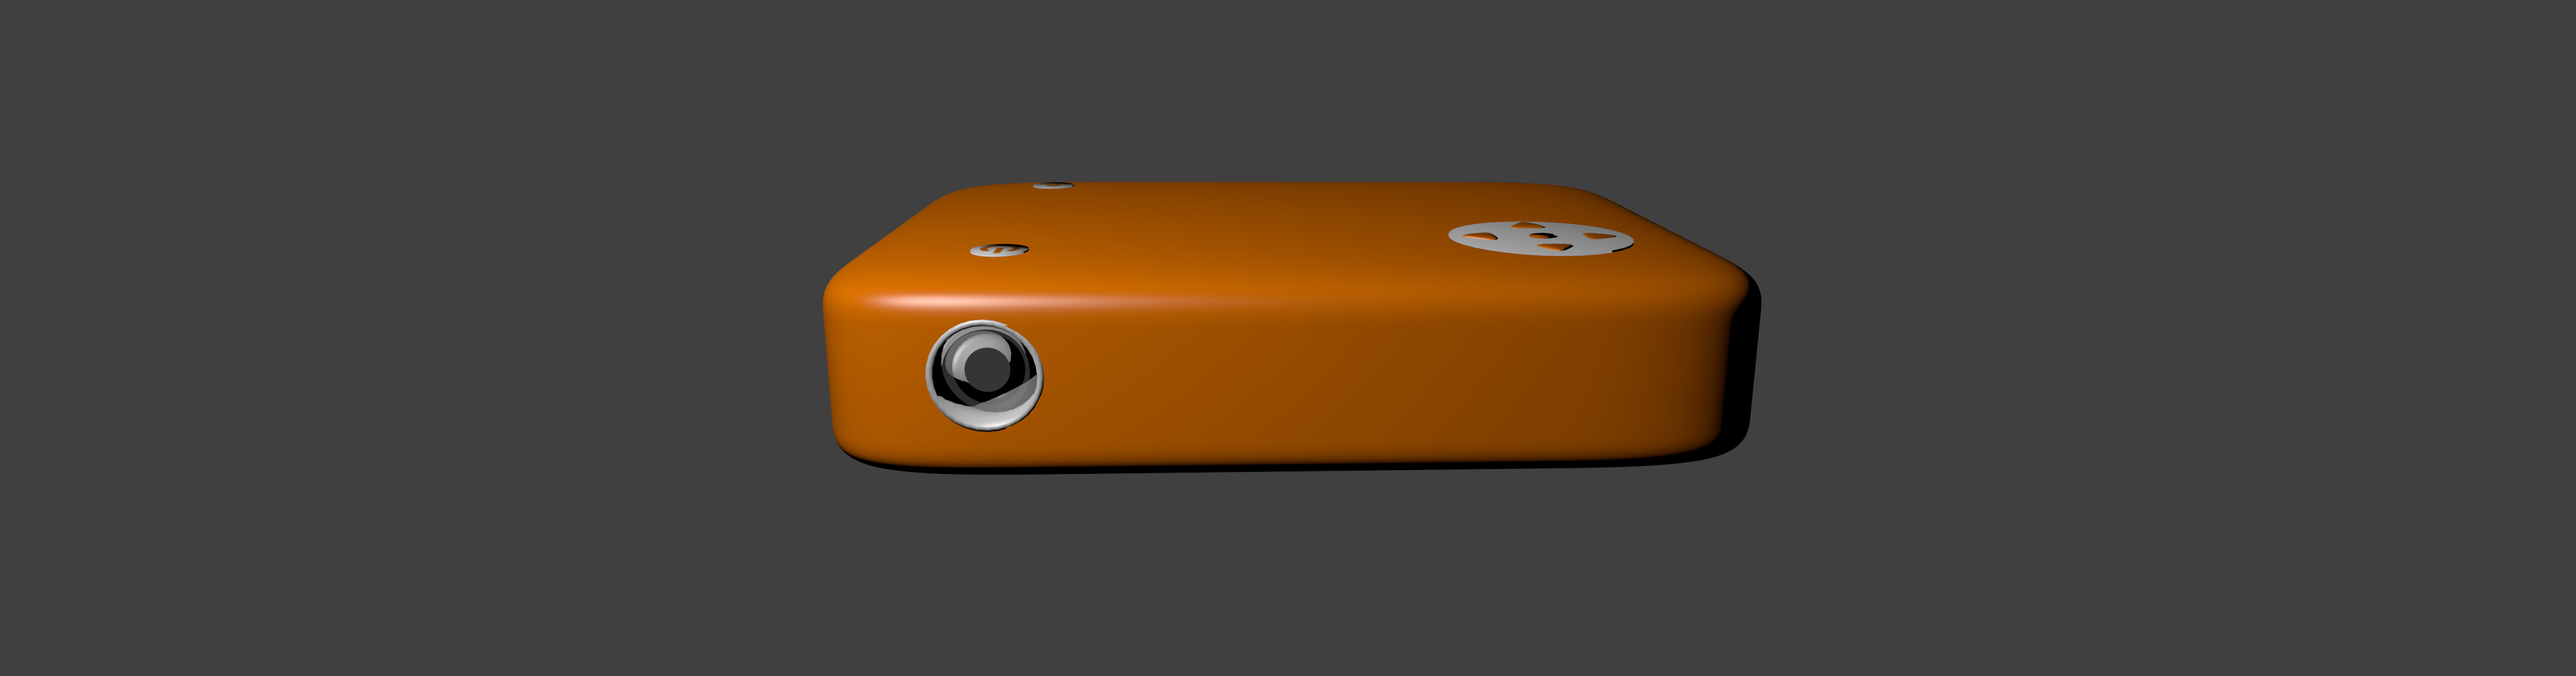
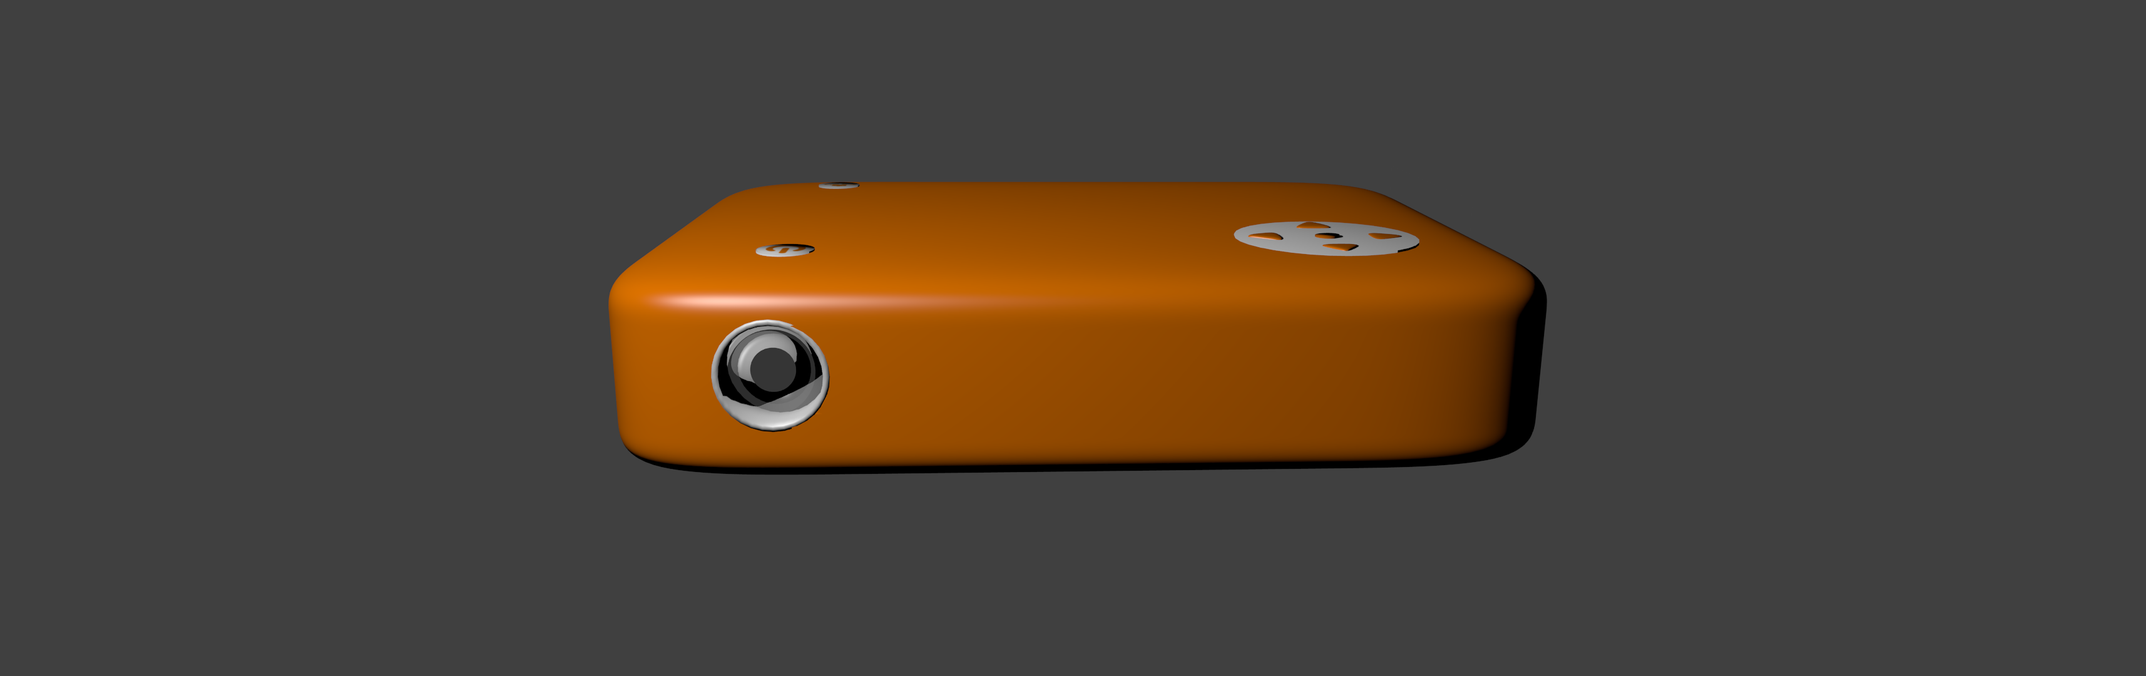
Added pilot program picture

Changed region(s): [[0.2808, 0.2444, 0.4057, 0.7028], [0.5617, 0.2444, 0.7177, 0.7028]]

diff --git a/home.html b/home.html
@@ -80,7 +80,7 @@
       </ol>
       <div class="carousel-inner">
         <div class="item active">
-          <img src="img/chicken.jpg" alt="First Slide" class="img-responsive">
+          <img src="img/logo.png" alt="First Slide" class="img-responsive">
           <div class="container">
             <div class="carousel-caption">
               <h1>LumenEd</h1>
@@ -100,7 +100,7 @@
           </div>
         </div>
         <div class="item">
-          <img src="img/chicken.jpg" alt="Third Slide" class="img-responsive">
+          <img src="img/pilot_program.jpg" alt="Third Slide" class="img-responsive">
           <div class="container">
             <div class="carousel-caption">
               <h1>The Program</h1>

diff --git a/css/carousel.css b/css/carousel.css
@@ -65,7 +65,7 @@ body {
 
 /* Declare heights because of positioning of img element */
 .carousel .item {
-  max-height: 700px;
+  max-height: 600px;
   background-color: #777;
 }
 .carousel-inner > .item > img {
